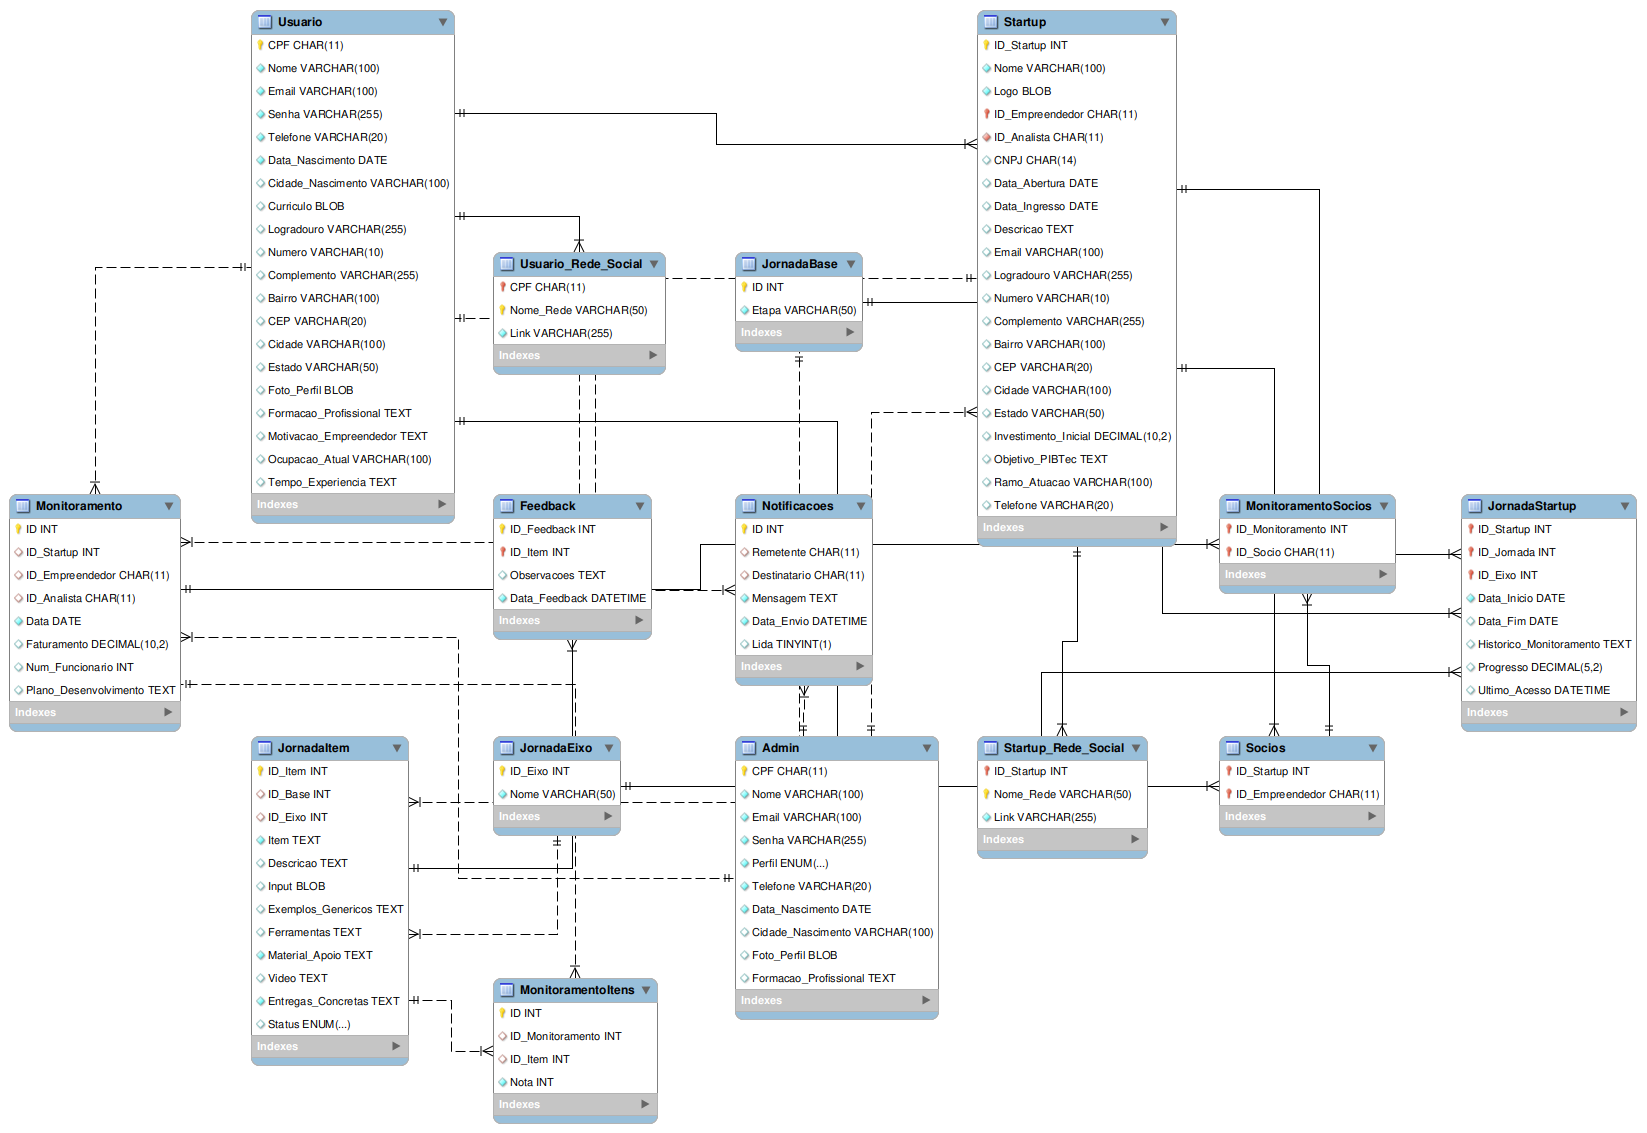
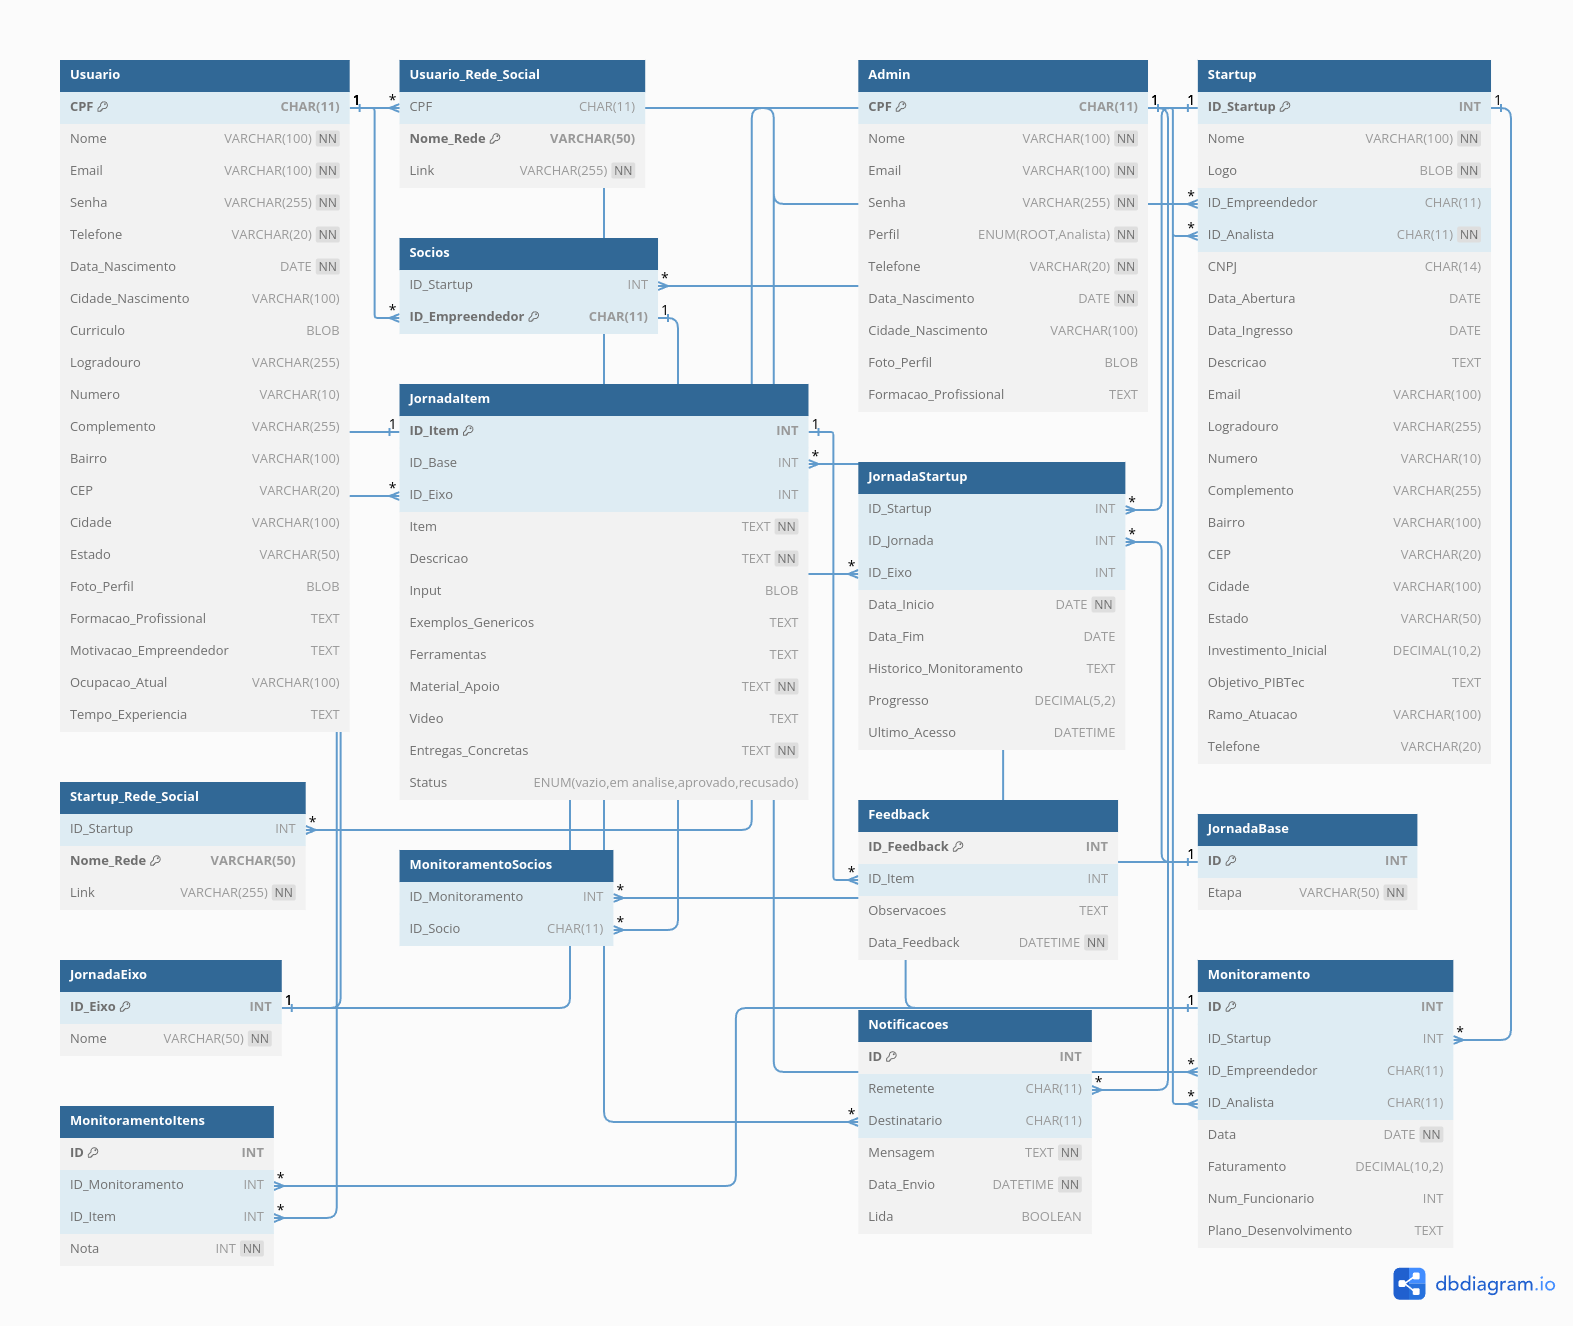
Diagrama ER v2

diff --git a/.github/docs/bancoDeDados.md b/.github/docs/bancoDeDados.md
@@ -4,6 +4,8 @@
 
 <img alt='Diagrama ER' src='../assets/diagramaBTec.png'/>
 
+- [Link no dbdiagram.io](https://dbdiagram.io/d/6750d2f6e9daa85acab295d6)
+
 ## Dicionário de Dados
 
 ### Tabela: **Usuario**
